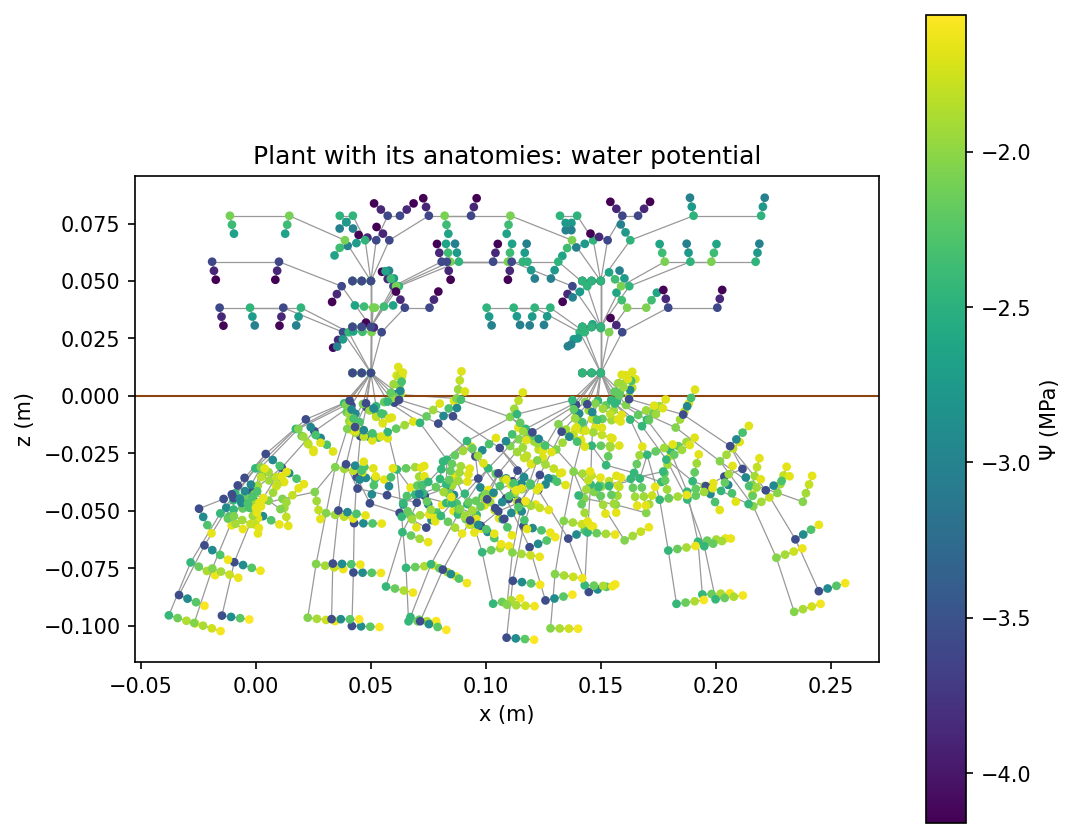
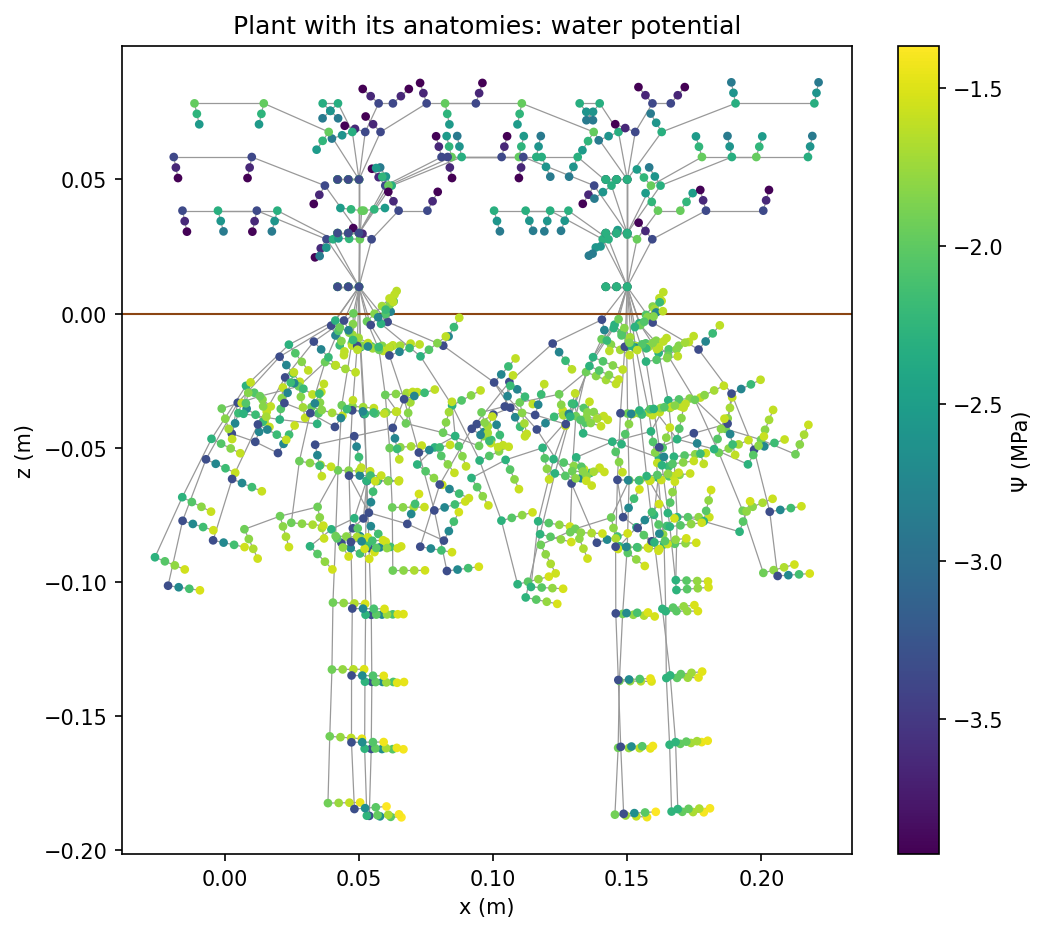
SPAC example: a pivot among the first-order roots

diff --git a/examples/soil_plant_atmosphere/seedling.py b/examples/soil_plant_atmosphere/seedling.py
@@ -32,12 +32,14 @@ def _tissue_label(labels, tissue):
 def build_seedling(g, plant, parameters):
     """
     The seedling of *plant*: a shoot of n_phytomers (a stem element and a leaf of n_leaf_elements each) and
-    n_root_axes first-order roots of n_root_segments from the collar, bending from emergence_angle below the
-    horizontal towards the vertical (gravitropism, per segment), each with a lateral; every segment with its anatomy.
+    n_root_axes first-order roots from the collar, each with a lateral: a nearly vertical pivot, and others bending
+    from emergence_angle below the horizontal towards the vertical (gravitropism, per segment); every segment with
+    its anatomy.
     """
     p = dict(n_phytomers=3, n_leaf_elements=3, n_root_axes=3, n_root_segments=6, n_lateral_segments=3,
              stem_length=0.02, leaf_length=0.03, leaf_width=0.005, root_length=0.025, lateral_length=0.015,
-             emergence_angle=15., gravitropism=0.35, lateral_gravitropism=0.08, tortuosity=0.08)
+             emergence_angle=15., gravitropism=0.35, lateral_gravitropism=0.08, tortuosity=0.08,
+             pivot_emergence_angle=80., pivot_gravitropism=0.8, n_pivot_segments=8)
     p.update({key: value for key, value in parameters.items() if key in p})
     s, labels = g.scales, g.labels
     x0, y0, z0 = (float(g.property(name)[plant]) for name in ("x", "y", "z"))
@@ -80,9 +82,10 @@ def build_seedling(g, plant, parameters):
                             (np.cos(azimuth), np.sin(azimuth), 0.6 - 0.4 * element))
             parent = vid
 
-    # roots: three first-order (seminal) roots from the collar, each with one lateral. Each starts emergence_angle
-    # (degrees) below the horizontal and bends towards the vertical segment after segment, its direction pulled down
-    # by the gravitropism coefficient, with a small random tortuosity (reproducible per plant)
+    # roots: three first-order roots from the collar, each with one lateral. The first is a pivot, nearly vertical
+    # (pivot_emergence_angle, pivot_gravitropism, n_pivot_segments); the others start emergence_angle (degrees) below
+    # the horizontal and bend towards the vertical segment after segment, their direction pulled down by the
+    # gravitropism coefficient. All have a small random tortuosity (reproducible per plant).
     rng = np.random.default_rng(int(plant))
 
     def tropism(direction, coefficient):
@@ -97,16 +100,19 @@ def build_seedling(g, plant, parameters):
                                                            label=labels.Phytomer.Root))
         organ = g.add_component(phytomer_r, **PropsConfig(scale=s.Organ, edge_type='/',
                                                           label=labels.Organ.RootInternode))
-        azimuth = rotation + (axis_rank + 0.5) * 2. * np.pi / float(p["n_root_axes"]) + rng.normal(0., 0.25)
-        dip = np.radians(p["emergence_angle"]) + rng.normal(0., 0.1)
+        pivot = axis_rank == 0
+        others = max(int(p["n_root_axes"]) - 1, 1)
+        azimuth = rotation + (axis_rank - 1) * 2. * np.pi / others + rng.normal(0., 0.25)
+        dip = np.radians(p["pivot_emergence_angle"] if pivot else p["emergence_angle"]) + rng.normal(0., 0.1)
+        gravitropism = p["pivot_gravitropism"] if pivot else p["gravitropism"]
         direction = np.array([np.cos(azimuth) * np.cos(dip), np.sin(azimuth) * np.cos(dip), -np.sin(dip)])
         start, parent, axis_segments = (x0, y0, z0), collar, []
-        for rank in range(int(p["n_root_segments"])):
+        for rank in range(int(p["n_pivot_segments"] if pivot else p["n_root_segments"])):
             props = PropsConfig(scale=s.SubOrgan, edge_type='+' if rank == 0 else '<',
                                 label=labels.SubOrgan.RootSegment)
             vid = (g.add_component_with_topo(organ, parent, **props) if rank == 0 else g.add_child(parent, **props))
             start = segment(vid, ROOT, p["root_length"], start, direction)
-            direction = tropism(direction, p["gravitropism"])
+            direction = tropism(direction, gravitropism)
             parent = vid
             axis_segments.append(vid)
         bearer = axis_segments[min(2, len(axis_segments) - 1)]

diff --git a/examples/soil_plant_atmosphere/README.md b/examples/soil_plant_atmosphere/README.md
@@ -6,7 +6,7 @@ dry atmosphere. Every part shows a feature of metafspm:
 | file | what it shows |
 |---|---|
 | `components.py` | **`PlantWaterTransport`** and **`SoilWaterTransport`**, two `FunctionalComponent`s, each declaring its own variables and graph system: a node balance, an edge law given explicitly (j = k ΔΨ), and every boundary written as an equation (`@boundary_condition`): the exchange with the air, k_vap (Ψ_air − Ψ), each selecting its nodes with explicit `filters=` key / values. The plant's are at the Compartment and Connection scales, read from and written to the MTG; it adds the root–soil exchange, an equation of the coupled soil Ψ (`@boundary_condition`). The soil's are at cell and edge locations; it adds the water table (Dirichlet, Ψ − Ψ_table) and the plants' uptake. `@graph_output`s give the uptake and the evaporation. |
-| `seedling.py` | **The seedling generator**, standing for the structural models (growth, anatomy) a real simulation would couple: the architecture at every scale (three first-order roots bending from the collar towards the vertical with a gravitropism coefficient, each with a lateral), the anatomies and the axial junctions, with the codes the components read. |
+| `seedling.py` | **The seedling generator**, standing for the structural models (growth, anatomy) a real simulation would couple: the architecture at every scale (three first-order roots from the collar, each with a lateral: a nearly vertical pivot, and two roots bending towards the vertical with a gravitropism coefficient), the anatomies and the axial junctions, with the codes the components read. |
 | | **`SeedlingStructure`** (in `components.py`), a `StructuralComponent`: `initiate_plant` builds each seedling (with `seedling.py`) at every scale (Plant → Axis → GrowthUnit → Phytomer → Organ → SubOrgan) with an anatomy per segment (root: epidermis, cortex, endodermis, xylem; stem: epidermis, cortex, xylem; leaf: xylem, mesophyll, stomatal cavity) and the axial xylem junctions, then computes the conductances from the structure: k = k_s · L on radial edges, k = k_axial / L on axial ones. **`SoilStructure`** does the same for the soil grid (k = K · A / d on the faces, K varying between voxels). |
 | | **The air**, a constant input: Ψ_air = (RT/V_w) ln RH at 50 % and 20 °C (about −93.9 MPa), and the vapour factor that turns a vapour conductance into a liquid one where water evaporates (the liquid–vapour step, linearised). |
 | `models.py` | **Models and translators.** The plant population model (`SeedlingWater`: initiators, anatomy mode) and the soil environment model. Translators inside a DataStructure (k → conductance), and across DataStructures (soil Ψ → root epidermis, uptake → soil cells). A `CrossMapping` of the root surface only (`mask=`). A `stop_when` condition on the change of Ψ between steps. |
@@ -26,7 +26,7 @@ Volumes in mm³ keep the solves' residuals well above the solver's absolute tole
 
 ## One plant
 
-The scene converges in five steps (largest change of Ψ: 2.5e-01, 9.0e-04, 5.7e-06, 5.9e-08 MPa). Transpiration
+The scene converges in five steps (largest change of Ψ: 2.5e-01, 1.2e-03, 1.3e-05, 2.0e-07 MPa). Transpiration
 (0.076 mm³ s⁻¹) equals the root uptake and the water taken from the soil; the water table supplies it and the soil
 evaporation.
 

diff --git a/devlog.md b/devlog.md
@@ -2040,3 +2040,4 @@ Per-file counts:
 - **Example boundaries as decorators (your request):** the air exchange (plant and soil) and the water table are `@boundary_condition` equations instead of boundary sets. Results identical.
 - **Seedling generator externalised (your request):** the architecture, anatomies and junctions (and their codes) moved from `components.py` to `seedling.py`; `SeedlingStructure.initiate_plant` calls it. Results identical.
 - **Root architecture (your request):** three first-order roots emerging 15° below the horizontal at the collar and bending towards the vertical by a gravitropism coefficient (0.35 per segment), with a seeded tortuosity per plant; laterals with a weaker gravitropism. Converges as before (5 and 6 steps), with balances closed.
+- **Pivot root (your request):** the first of the three first-order roots is a pivot (80° below the horizontal, gravitropism 0.8, 8 segments, down to about 20 cm); the two others spread along ±x and bend down. Converges in 5 and 6 steps.
